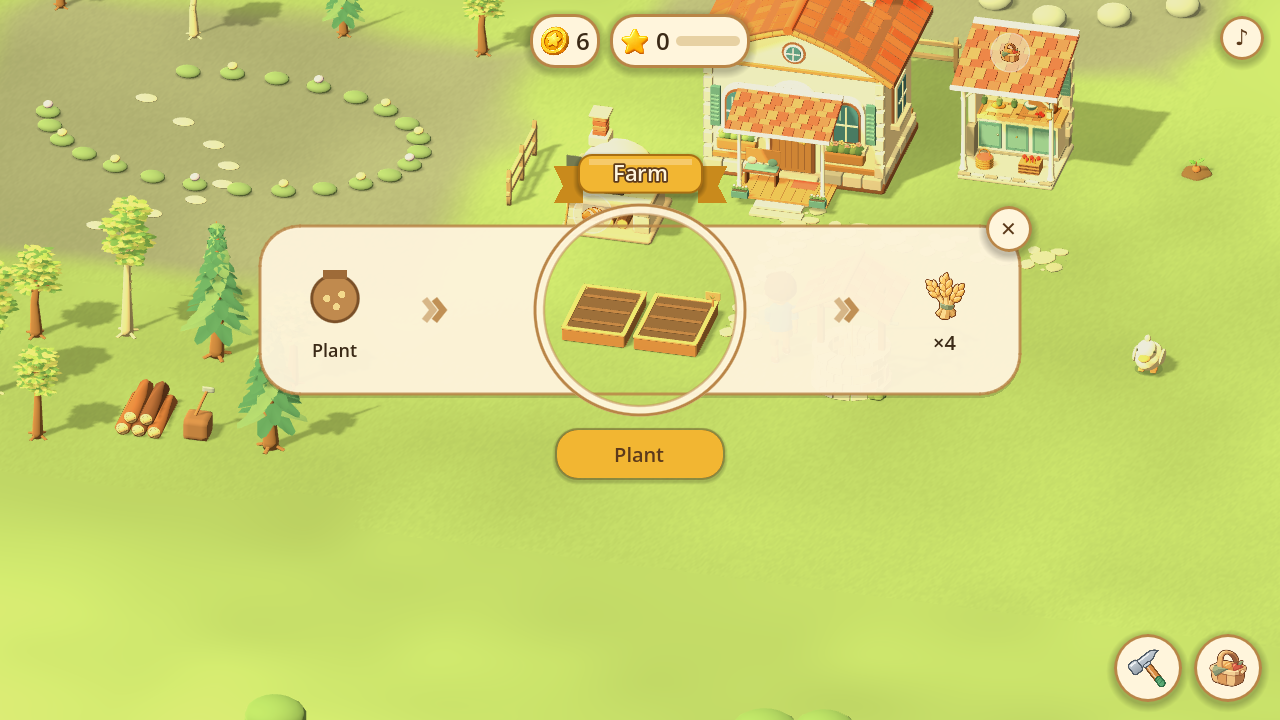
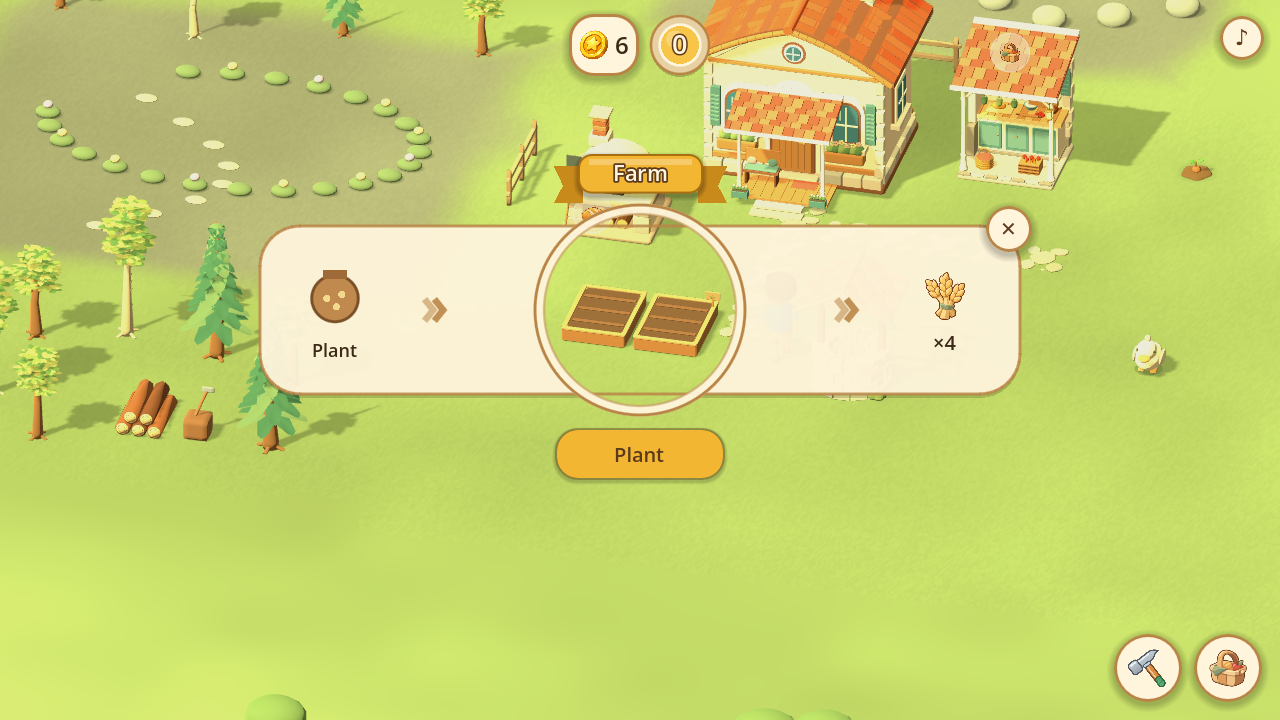
Second bold pass: level medal, map pointer, wooden Build shelf, confetti
- The level is a round medal with a progress ring beside the wallet.
- A bouncing gold pointer marks the goal's place on the map, placed from
  the renderer's existing feedbackAnchor reply.
- The Build tray is a wooden shelf; locked places carry a padlock.
- Level-up adds confetti to the banner.

Verified: rules tests 44/44 (Godot 4.7.2, Linux); Xvfb capture of 14
screens reviewed. Not run: Mac or device play.

Claude-Session: https://claude.ai/code/session_019UTbVabYCYhx7BqwCsJu8u

Changed region(s): [[0.4062, 0.0, 0.5938, 0.1222]]

diff --git a/docs/PORTING-PLAN.md b/docs/PORTING-PLAN.md
@@ -27,7 +27,7 @@ Source of truth for behaviour: `reference/tuvlo-swift/` (Tuvlo `b50d5f57`). The 
    - Tapping a place on the map does the obvious thing (plant, water, harvest, pick, collect). Otherwise it opens the place card: goods → the real place framed in a ring → products, with drag or tap to fill and one action.
    - A picture-only Build tray in a single row with spot preview, and a Market sheet with orders and selling.
    - Motion and sound: cards spring in, buttons press, goods and coins fly to the Market and wallet, a level-up banner shows what unlocked, and the World music loops (♪ toggles it).
-   - Look: a title screen over the living map, place cards as one picture strip (goods › the place seen through a window in the band › products) under a gold ribbon, a ring that glows when something is ready, and a striped market-stall awning.
+   - Look: a title screen over the living map, place cards as one picture strip (goods › the place seen through a window in the band › products) under a gold ribbon, a ring that glows when something is ready, and a striped market-stall awning. A round level medal with a progress ring, a bouncing pointer on the map above the goal's place, a wooden Build shelf with padlocks on locked places, and confetti on level-up.
    - Market orders: three order slots that open with the farm, windmill and barn and pay above the market price (record type `order`). 44 headless checks.
 3. **iPhone and iPad.** `scripts/export-ios.sh` installs the templates, exports the Xcode project and opens it, and the team ID is set. The first device run happens on the owner's Mac (see [Run](RUN.md)). A Swift shell is only needed later, for StoreKit.
 4. **Market.** Selling, levels and orders have landed. Still to do: balancing and a market stall place. This is solo-only.

diff --git a/README.md b/README.md
@@ -19,5 +19,7 @@ Owner decision (2026-11-04): **all-Godot game, thin Swift shell.** Godot holds t
 | ![Farm card](docs/images/step2-05-farm-card.png) | ![Windmill card](docs/images/step2-10-mill-card.png) |
 | **Market stall and orders** | **Harvest flies to the Market** |
 | ![Market](docs/images/step2-06-market-orders.png) | ![Harvest](docs/images/step2-04-harvest-fly.png) |
+| **Build shelf and level-up** | |
+| ![Build shelf](docs/images/step2-08-build-tray.png) | |
 
 Tuvlo keeps its own World unchanged until the owner decides to converge the two. See Tuvlo's `docs/design/STANDALONE-WORLD-PLAN.md`.
